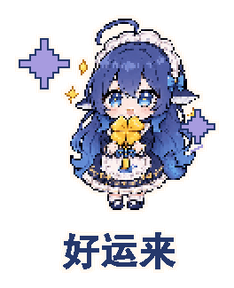
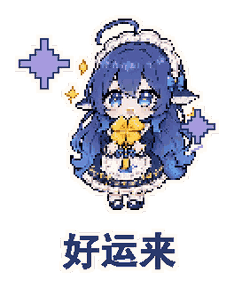
perf: palette-quantise the fish header frames

diff --git a/tools/gen_fish_art.py b/tools/gen_fish_art.py
@@ -96,9 +96,11 @@ def build_header_frames(gif_path: str, out_dir: str) -> int:
     for index, frame in enumerate(frames):
         canvas = Image.new("RGBA", (frame_w, frame_h), (0, 0, 0, 0))
         canvas.paste(frame.crop((x0, y0, x1, y1)), (pad, pad))
-        canvas.resize((target_w, target_h), Image.LANCZOS).save(
-            os.path.join(out_dir, f"{index:02d}.png"), "PNG", optimize=True
-        )
+        # 像素图只有几十种颜色，转成调色板后体积降一个量级（69KB → 13KB/帧），
+        # 边缘本来就是硬边，量化看不出差别。
+        canvas.resize((target_w, target_h), Image.LANCZOS).quantize(
+            colors=64, method=Image.FASTOCTREE
+        ).save(os.path.join(out_dir, f"{index:02d}.png"), "PNG", optimize=True)
     return len(frames), target_w, target_h
 
 
